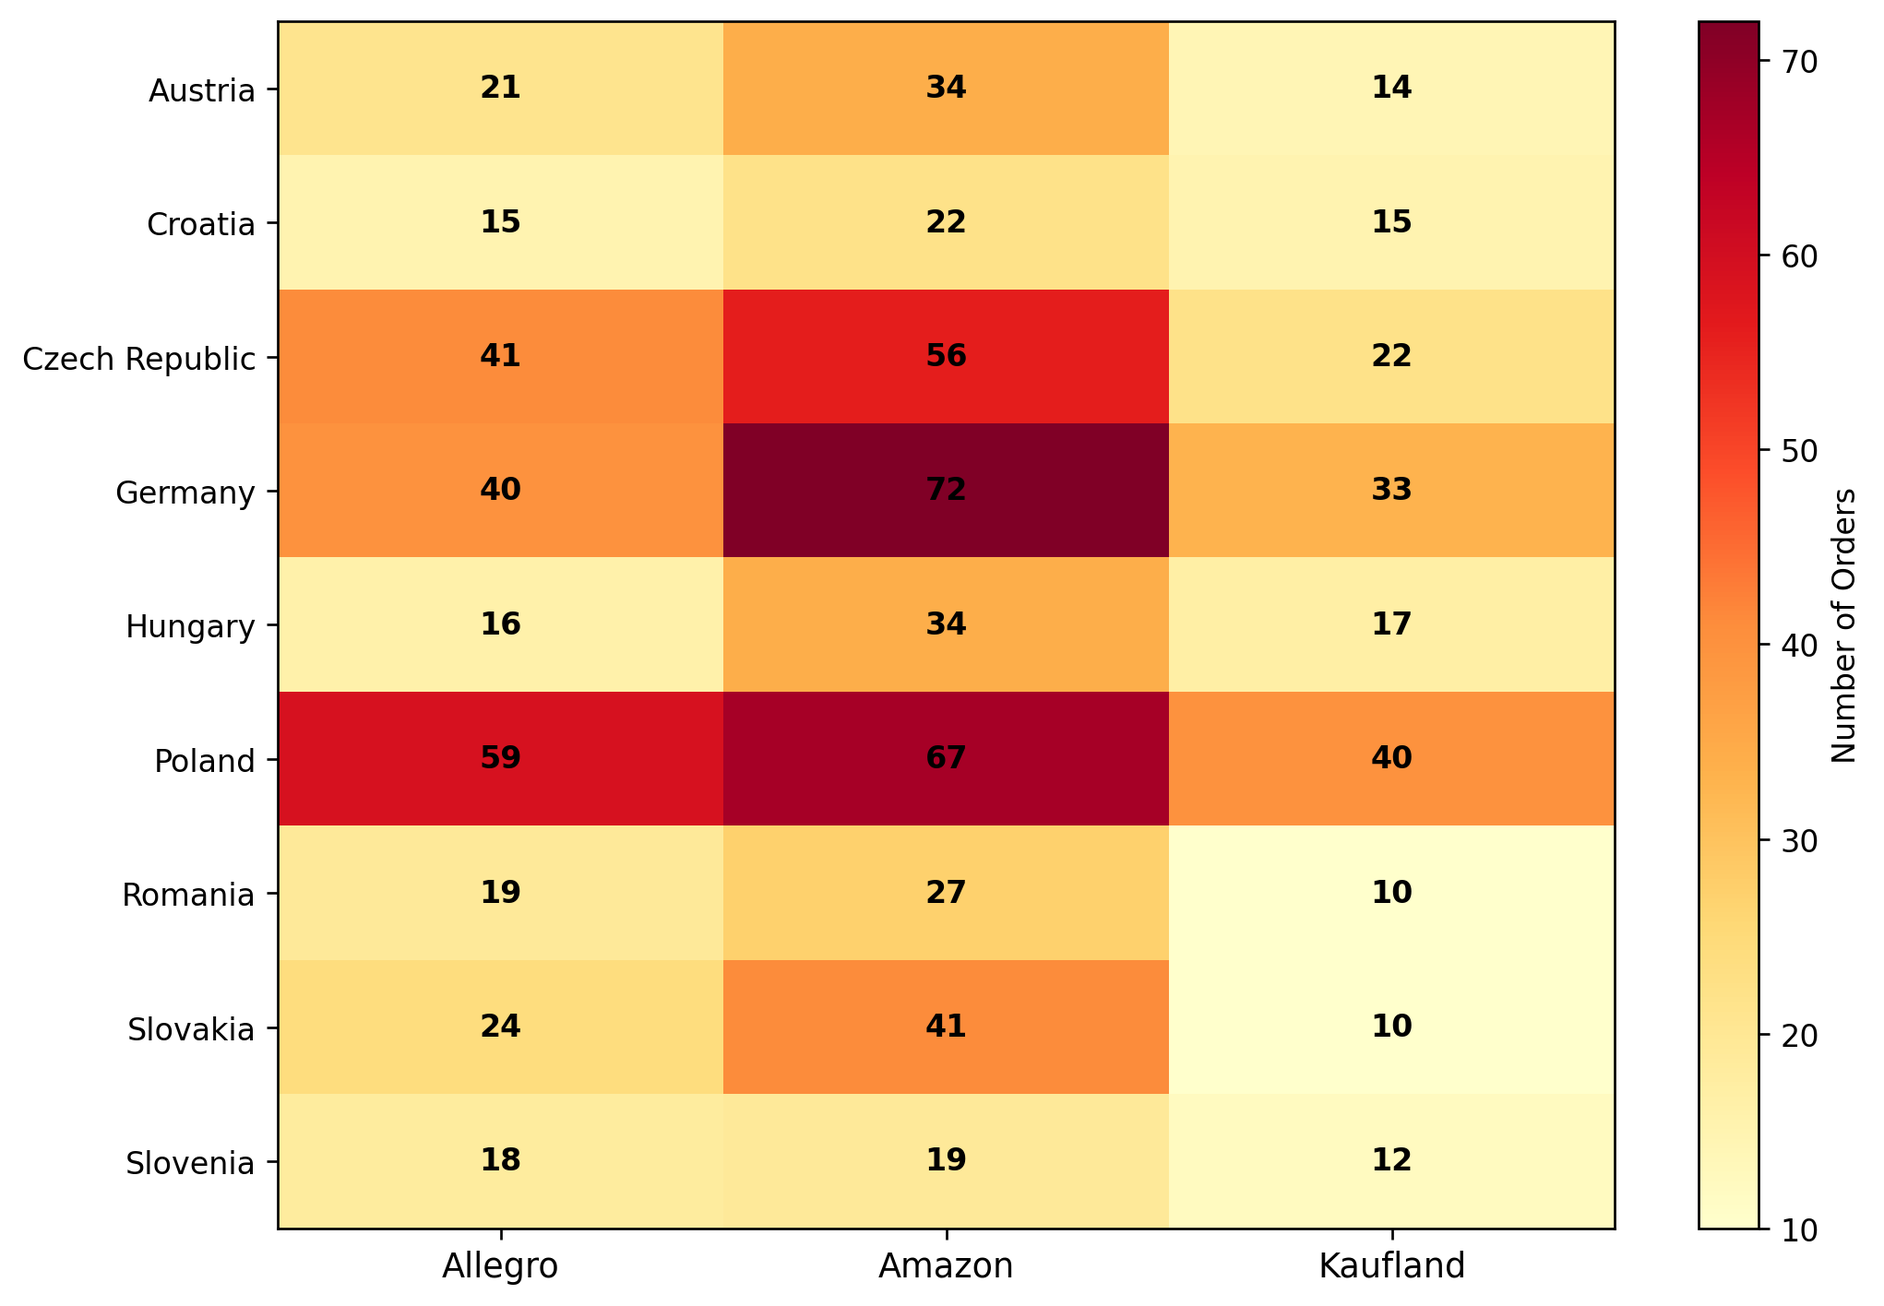
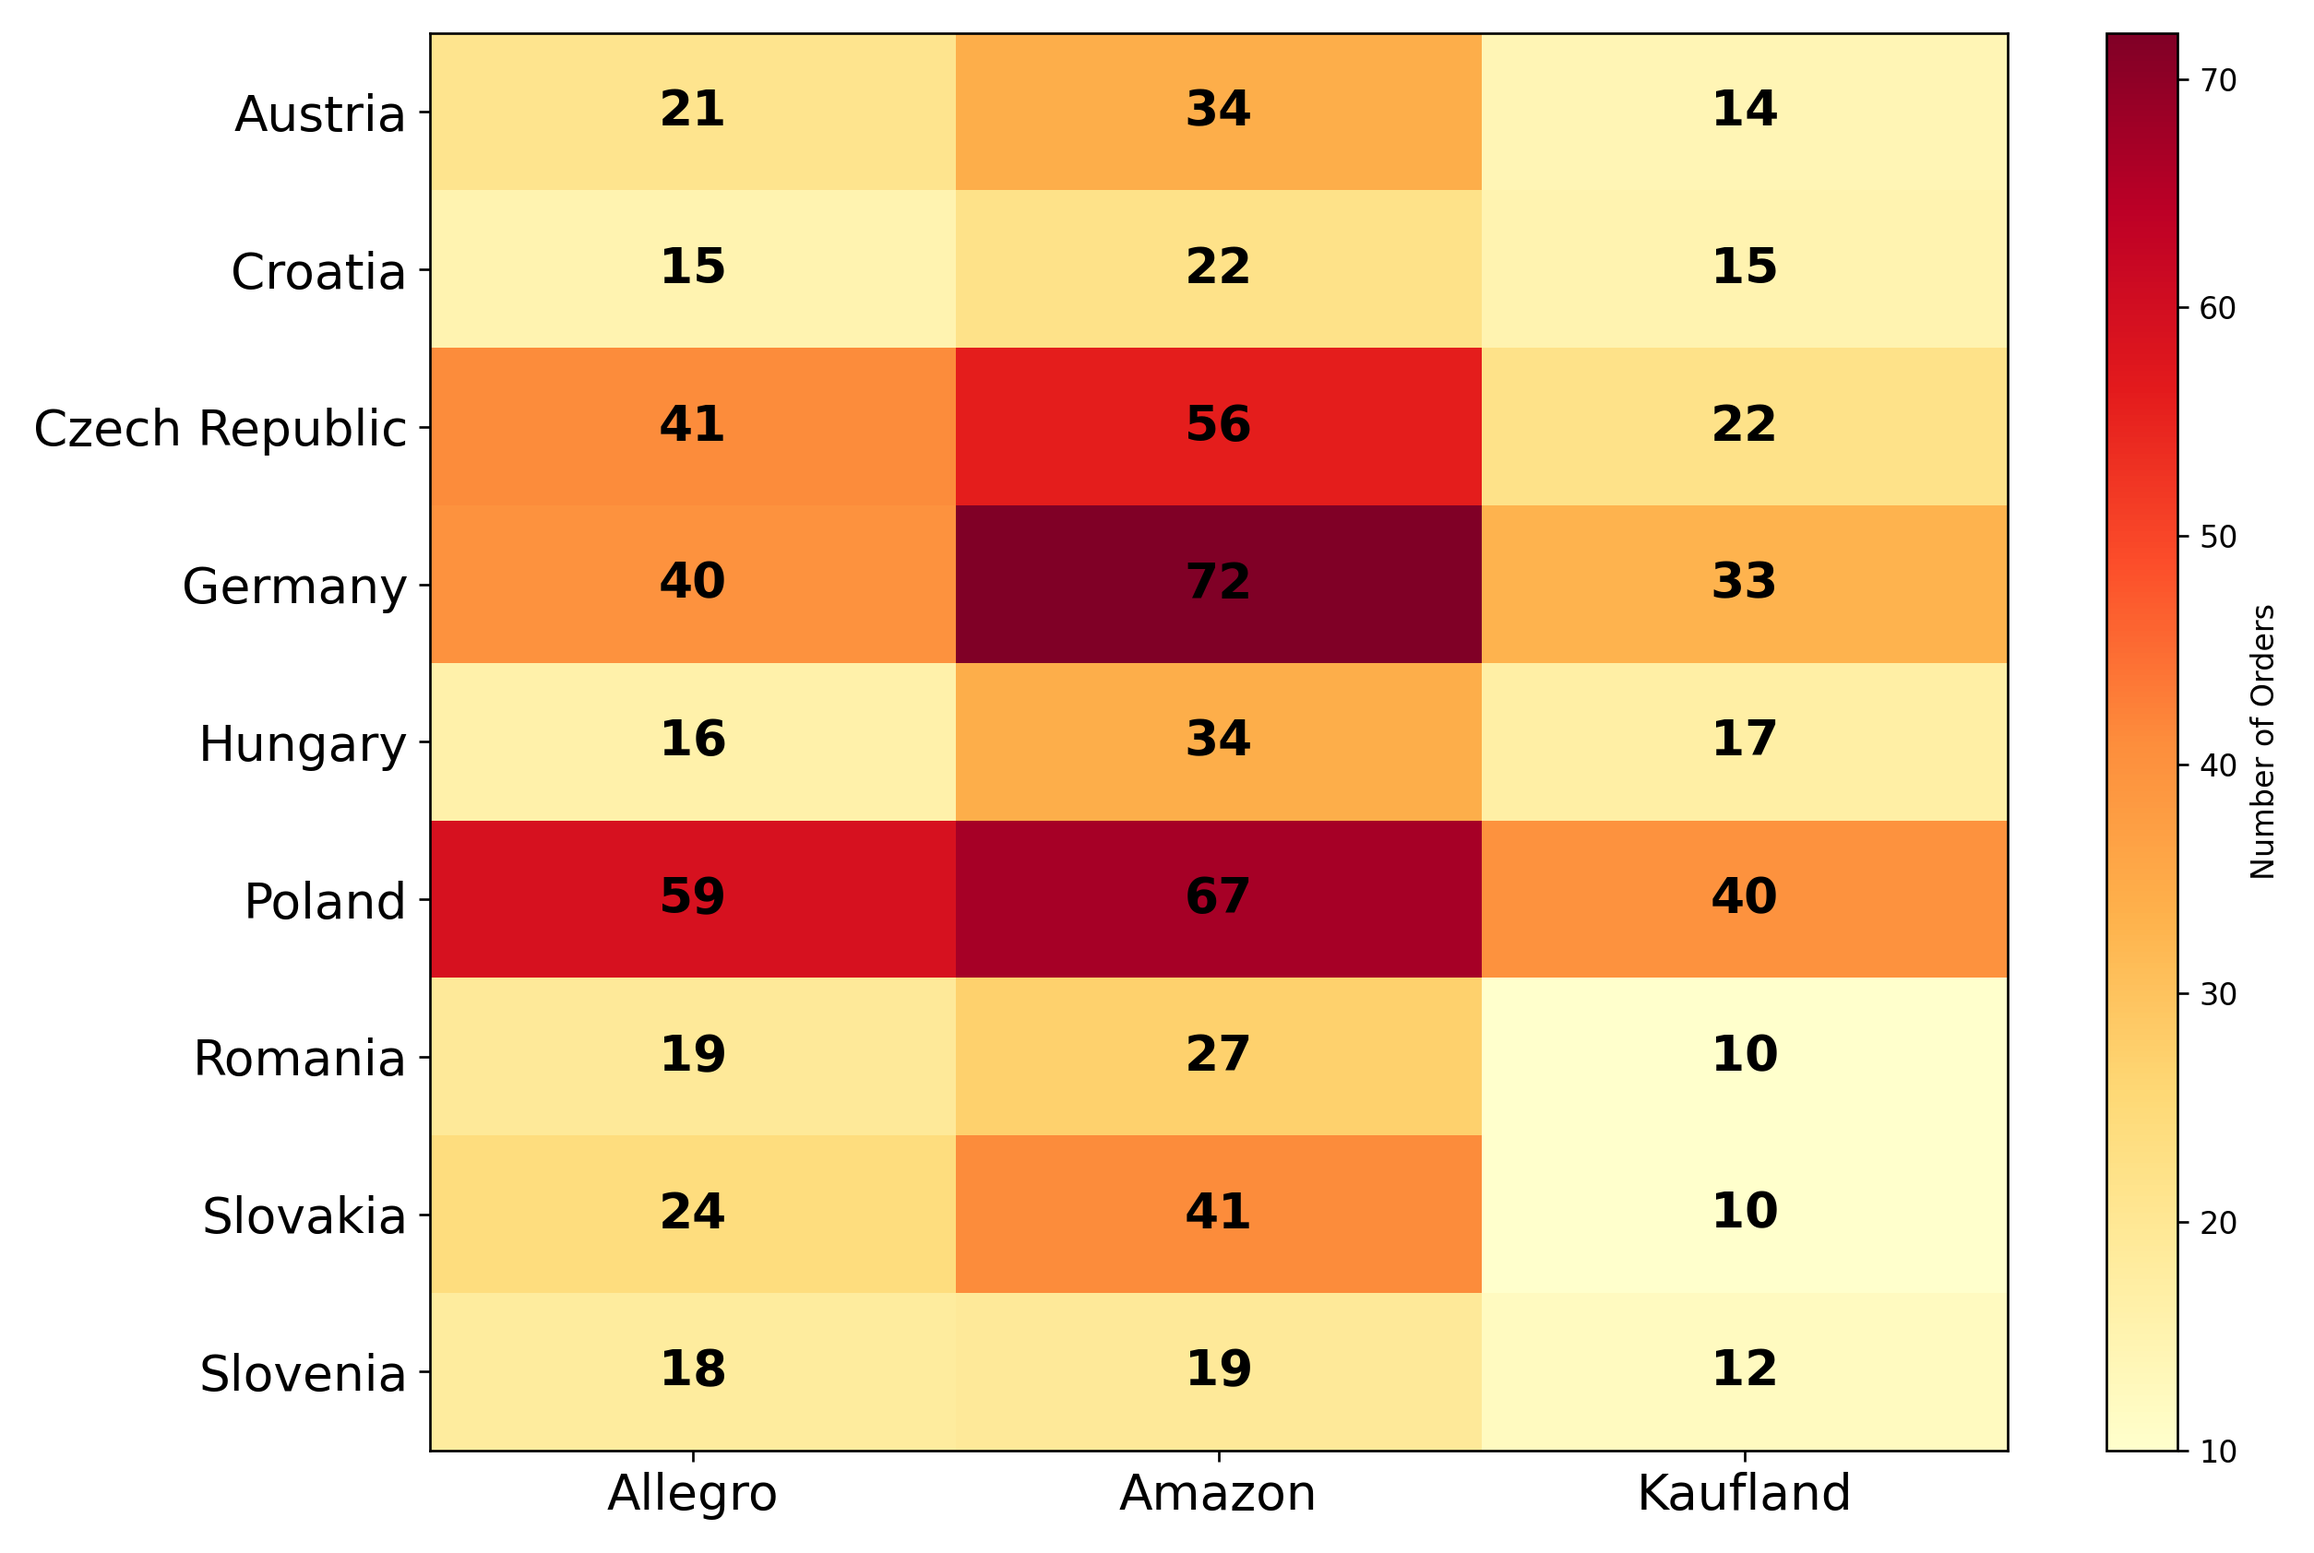
css - chart-s-grid rozsireny o product-insight-grid na zarovnanie velkosti grafov a tabuliek main.py - uprava heatmap obrazku

diff --git a/index.html b/index.html
@@ -75,7 +75,7 @@
 
             <div class="metric-box">
                 <h3>Total Orders</h3>
-                <p>798</p>
+                <p>784</p>
             </div>
 
             <div class="metric-box">
@@ -93,43 +93,29 @@
         revenue, profit, order volume, and return-related indicators.
     </p>
 
-    <table>
-        <thead>
-            <tr>
-                <th>Marketplace</th>
-                <th>Country</th>
-                <th>Revenue</th>
-                <th>Orders</th>
-                <th>Profit Margin</th>
-            </tr>
-        </thead>
+    <div class="marketplace-overview-grid">
 
-        <tbody>
-            <tr>
-                <td>Amazon</td>
-                <td>Germany</td>
-                <td>€58,200</td>
-                <td>1,240</td>
-                <td>21%</td>
-            </tr>
+    <div class="insight-box">
+        <h3>Key Insights</h3>
 
-            <tr>
-                <td>Allegro</td>
-                <td>Poland</td>
-                <td>€41,500</td>
-                <td>1,520</td>
-                <td>16%</td>
-            </tr>
+        <ul>
+            <li>Amazon generated the highest marketplace revenue and order volume.</li>
+            <li>Poland produced the strongest overall revenue performance.</li>
+            <li>Germany achieved the highest total profit across analyzed countries.</li>
+            <li>Austria recorded the highest average order value despite lower order volume.</li>
+            <li>Hungary and Austria showed the highest return-rate levels.</li>
+            <li>31 duplicate records were identified and removed during data preprocessing.</li>
+        </ul>
+    </div>
 
-            <tr>
-                <td>Kaufland</td>
-                <td>Czech Republic</td>
-                <td>€25,150</td>
-                <td>660</td>
-                <td>14%</td>
-            </tr>
-        </tbody>
-    </table>
+    <div class="chart-placeholder">
+        <h3>Marketplace Orders by Country</h3>
+        <img src="cleaned_data/17_heatmap_marketplace_country.png"
+            alt="Marketplace Orders by Country Heatmap">
+    </div>
+
+</div>
+
     <div class="charts-grid marketplace-charts">
         <div class="chart-placeholder">
             <h3>Revenue by Marketplace</h3>
@@ -158,7 +144,7 @@
         <h2>Sales Trends</h2>
 
         <p>
-            This section shows how revenue and order volume changed over time.
+            Revenue and order activity showed strong seasonal fluctuations, with peak marketplace performance observed in June and October.
         </p>
 
         <div class="charts-grid">
@@ -182,8 +168,7 @@
         <h2>Product Performance</h2>
 
         <p>
-            This section highlights the strongest and weakest product-level results
-            based on revenue, units sold, profit margin, and return behavior.
+            This section analyzes product-level performance across revenue, sales volume, profitability, and return rates.
         </p>
 
         <div class="chart-hero">
@@ -194,7 +179,7 @@
             </div>
         </div>
 
-        <div class="charts-grid">
+        <div class="charts-grid product-insights-grid">
 
             <div class="chart-placeholder">
                 <h3>Top Products by Return Rate</h3>
@@ -206,9 +191,11 @@
             <h3>Product Insights</h3>
 
                 <ul>
-                    <li>HP Pavilion 15 generated the strongest product-level revenue.</li>
-                    <li>LG 27MP60G Monitor showed the highest return rate risk.</li>
-                    <li>Samsung products appeared consistently across multiple rankings.</li>
+                    <li>HP Pavilion 15 generated the highest product-level revenue.</li>
+                    <li>LG 27MP60G Monitor recorded the highest product return rate in the dataset.</li>
+                    <li>Product sales were concentrated among a small number of top-performing SKUs.</li>
+                    <li>Phones and laptops represented the strongest-selling product categories.</li>
+                    <li>Lower-performing products showed weaker sales consistency across marketplaces.</li>
                     <li>Revenue concentration suggests dependency on a small product subset.</li>
                 </ul>
             </div>

diff --git a/style.css b/style.css
@@ -175,6 +175,37 @@ tr:hover td {
     margin-top: 24px;
 }
 
+.product-insights-grid {
+    align-items: stretch;
+}
+
+.product-insights-grid > .chart-placeholder,
+.product-insights-grid > .insight-box {
+    height: 100%;
+    box-sizing: border-box;
+    margin-bottom: 0;
+}
+
+.marketplace-overview-grid {
+    display: grid;
+    grid-template-columns: 1fr 1fr;
+    gap: 32px;
+    margin-top: 24px;
+    margin-bottom: 32px;
+    align-items: stretch;
+}
+
+.marketplace-overview-grid .chart-placeholder,
+.marketplace-overview-grid .insight-box {
+    height: 100%;
+    box-sizing: border-box;
+    margin-bottom: 0;
+}
+
+.marketplace-overview-grid .chart-placeholder img {
+    max-height: 430px;
+}
+
 .chart-placeholder {
     border: 2px solid #bdbdbd;
     border-radius: 12px;

diff --git a/main.py b/main.py
@@ -469,12 +469,12 @@ heatmap_data = (
     .count()
     .unstack(fill_value=0)
 )
-fig, ax = plt.subplots(figsize=(9, 6))
+fig, ax = plt.subplots(figsize=(11, 7))
 im = ax.imshow(heatmap_data.values, cmap="YlOrRd", aspect="auto")
 ax.set_xticks(range(len(heatmap_data.columns)))
-ax.set_xticklabels(heatmap_data.columns, fontsize=11)
+ax.set_xticklabels(heatmap_data.columns, fontsize=16)
 ax.set_yticks(range(len(heatmap_data.index)))
-ax.set_yticklabels(heatmap_data.index, fontsize=10)
+ax.set_yticklabels(heatmap_data.index, fontsize=16)
 # ax.set_title("Orders by Marketplace × Country", fontsize=16, fontweight="bold")
 plt.colorbar(im, ax=ax, label="Number of Orders")
 for i in range(len(heatmap_data.index)):
@@ -485,12 +485,15 @@ for i in range(len(heatmap_data.index)):
             str(heatmap_data.values[i, j]),
             ha="center",
             va="center",
-            fontsize=10,
+            fontsize=16,
             fontweight="bold",
         )
 plt.tight_layout()
 plt.savefig(
-    "cleaned_data/17_heatmap_marketplace_country.png", dpi=240, bbox_inches="tight"
+    "cleaned_data/17_heatmap_marketplace_country.png",
+    dpi=240,
+    bbox_inches="tight",
+    pad_inches=0.15
 )
 plt.close()
 print("✓ 17_heatmap_marketplace_country.png")
